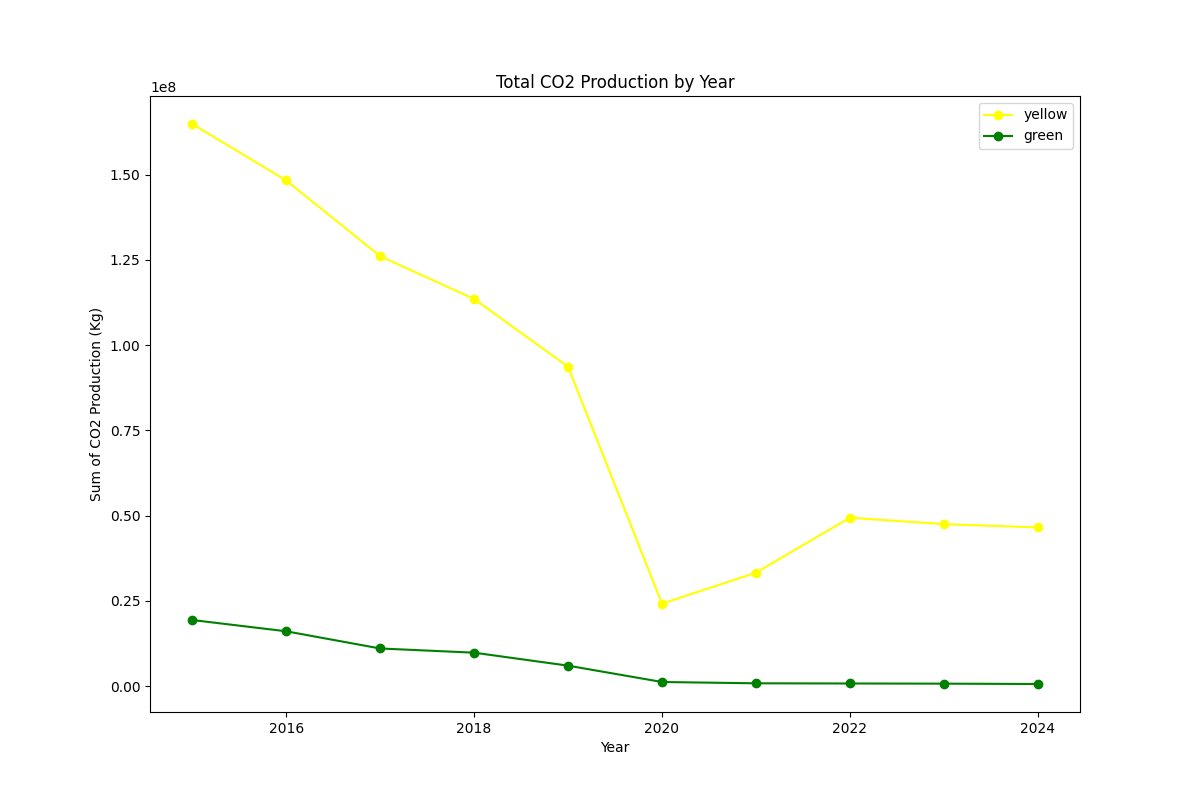
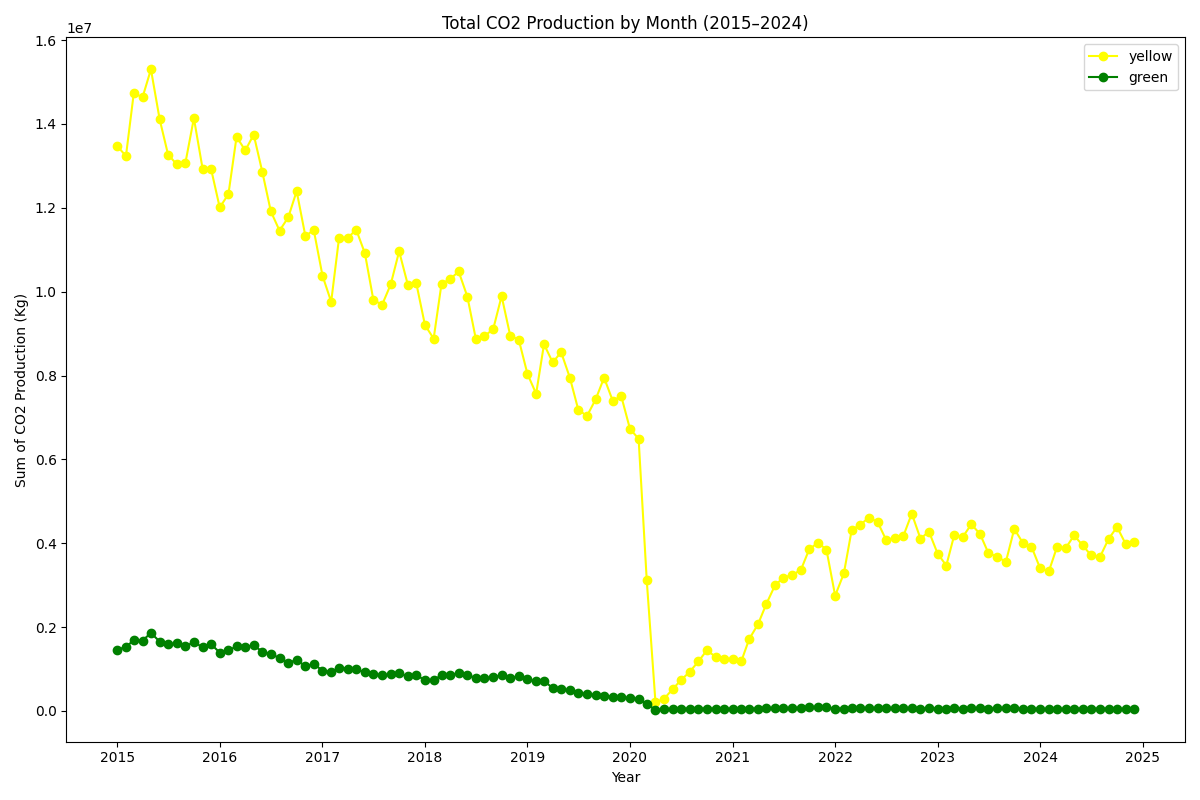
Updated plot

diff --git a/analysis.py b/analysis.py
@@ -132,43 +132,62 @@ def analyze():
 
         # 6. Time-series plot of total CO2 by year for yellow and green taxis
 
-        # Aggregate yellow taxi data per year
+        # Aggregate yellow taxi data per month
         yellow_agg = con.execute("""
-                -- Sum CO2 by year for yellow taxis (2015-2024)
-                SELECT
-                    EXTRACT(YEAR FROM pickup_time) AS year,
-                    'yellow' AS color,
-                    SUM(trip_co2_kgs) AS trip_co2_kgs
-                FROM final_yellow_data
-                WHERE EXTRACT(YEAR FROM pickup_time) >= 2015 AND EXTRACT(YEAR FROM pickup_time) <= 2024
-                GROUP BY year;
-            """).df()
+            -- Sum CO2 by month for yellow taxis (2015-2024)
+            SELECT
+                EXTRACT(YEAR FROM pickup_time) AS year,
+                EXTRACT(MONTH FROM pickup_time) AS month,
+                'yellow' AS color,
+                SUM(trip_co2_kgs) AS trip_co2_kgs
+            FROM final_yellow_data
+            WHERE EXTRACT(YEAR FROM pickup_time) BETWEEN 2015 AND 2024
+            GROUP BY year, month
+            ORDER BY year, month;
+        """).df()
 
-        # Aggregate green taxi data per year
+        # Aggregate green taxi data per month
         green_agg = con.execute("""
-                -- Sum CO2 by year for green taxis (2015-2024)
-                SELECT
-                    EXTRACT(YEAR FROM pickup_time) AS year,
-                    'green' AS color,
-                    SUM(trip_co2_kgs) AS trip_co2_kgs
-                FROM final_green_data
-                WHERE EXTRACT(YEAR FROM pickup_time) >= 2015 AND EXTRACT(YEAR FROM pickup_time) <= 2024
-                GROUP BY year;
-            """).df()
+            -- Sum CO2 by month for green taxis (2015-2024)
+            SELECT
+                EXTRACT(YEAR FROM pickup_time) AS year,
+                EXTRACT(MONTH FROM pickup_time) AS month,
+                'green' AS color,
+                SUM(trip_co2_kgs) AS trip_co2_kgs
+            FROM final_green_data
+            WHERE EXTRACT(YEAR FROM pickup_time) BETWEEN 2015 AND 2024
+            GROUP BY year, month
+            ORDER BY year, month;
+        """).df()
+
 
         # Combine yellow and green data
-        yearly_sum = pd.concat([yellow_agg, green_agg], axis=0, ignore_index=True)
+        monthly_sum = pd.concat([yellow_agg, green_agg], axis=0, ignore_index=True)
+
+        # Create a proper datetime column (first day of each month)
+        monthly_sum['date'] = pd.to_datetime(
+            monthly_sum['year'].astype(str) + '-' + monthly_sum['month'].astype(str) + '-01'
+        )
 
         # Plot CO2 time-series by taxi color
-        plt.figure(figsize = (12, 8))
-        for color in yearly_sum['color'].unique():
-            subset = yearly_sum[yearly_sum['color'] == color]
-            plt.plot(subset['year'], subset['trip_co2_kgs'], marker='o', label=color, color=color)
+        plt.figure(figsize=(12, 8))
+        for color in monthly_sum['color'].unique():
+            subset = monthly_sum[monthly_sum['color'] == color]
+            plt.plot(subset['date'], subset['trip_co2_kgs'], marker='o', color = color, label=color)
+
         plt.xlabel('Year')
         plt.ylabel('Sum of CO2 Production (Kg)')
-        plt.title("Total CO2 Production by Year")
+        plt.title("Total CO2 Production by Month (2015–2024)")
+
+        # Show only years on x-axis
+        import matplotlib.dates as mdates
+        plt.gca().xaxis.set_major_locator(mdates.YearLocator())
+        plt.gca().xaxis.set_major_formatter(mdates.DateFormatter('%Y'))
+
         plt.legend()
+        plt.tight_layout()
         plt.savefig("./co2_timeseries_analysis.png")
+
 
         print("Plotted time-series analysis and saved as co2_timeseries_analysis.png")
         logger.info("Plotted time-series analysis and saved as co2_timeseries_analysis.png")
